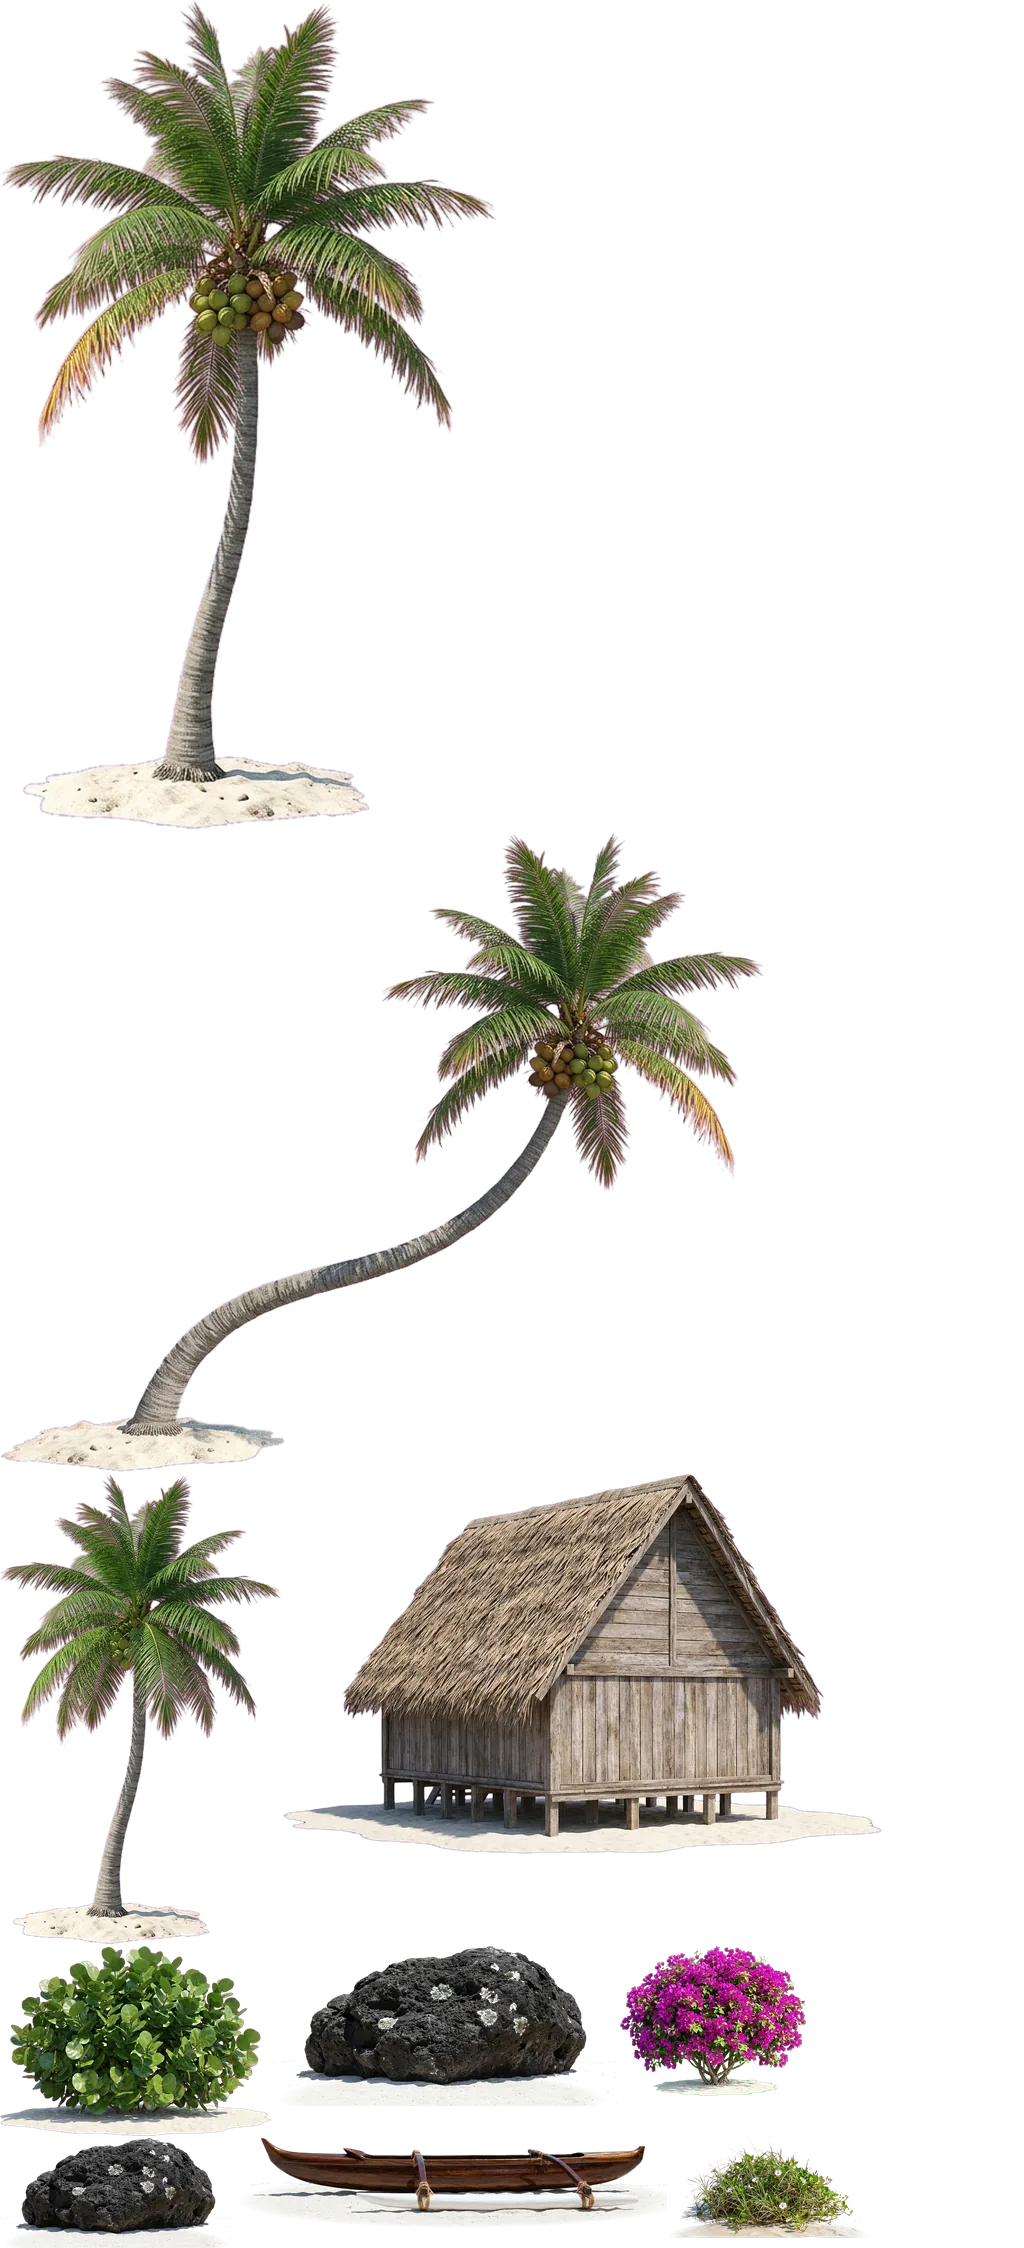
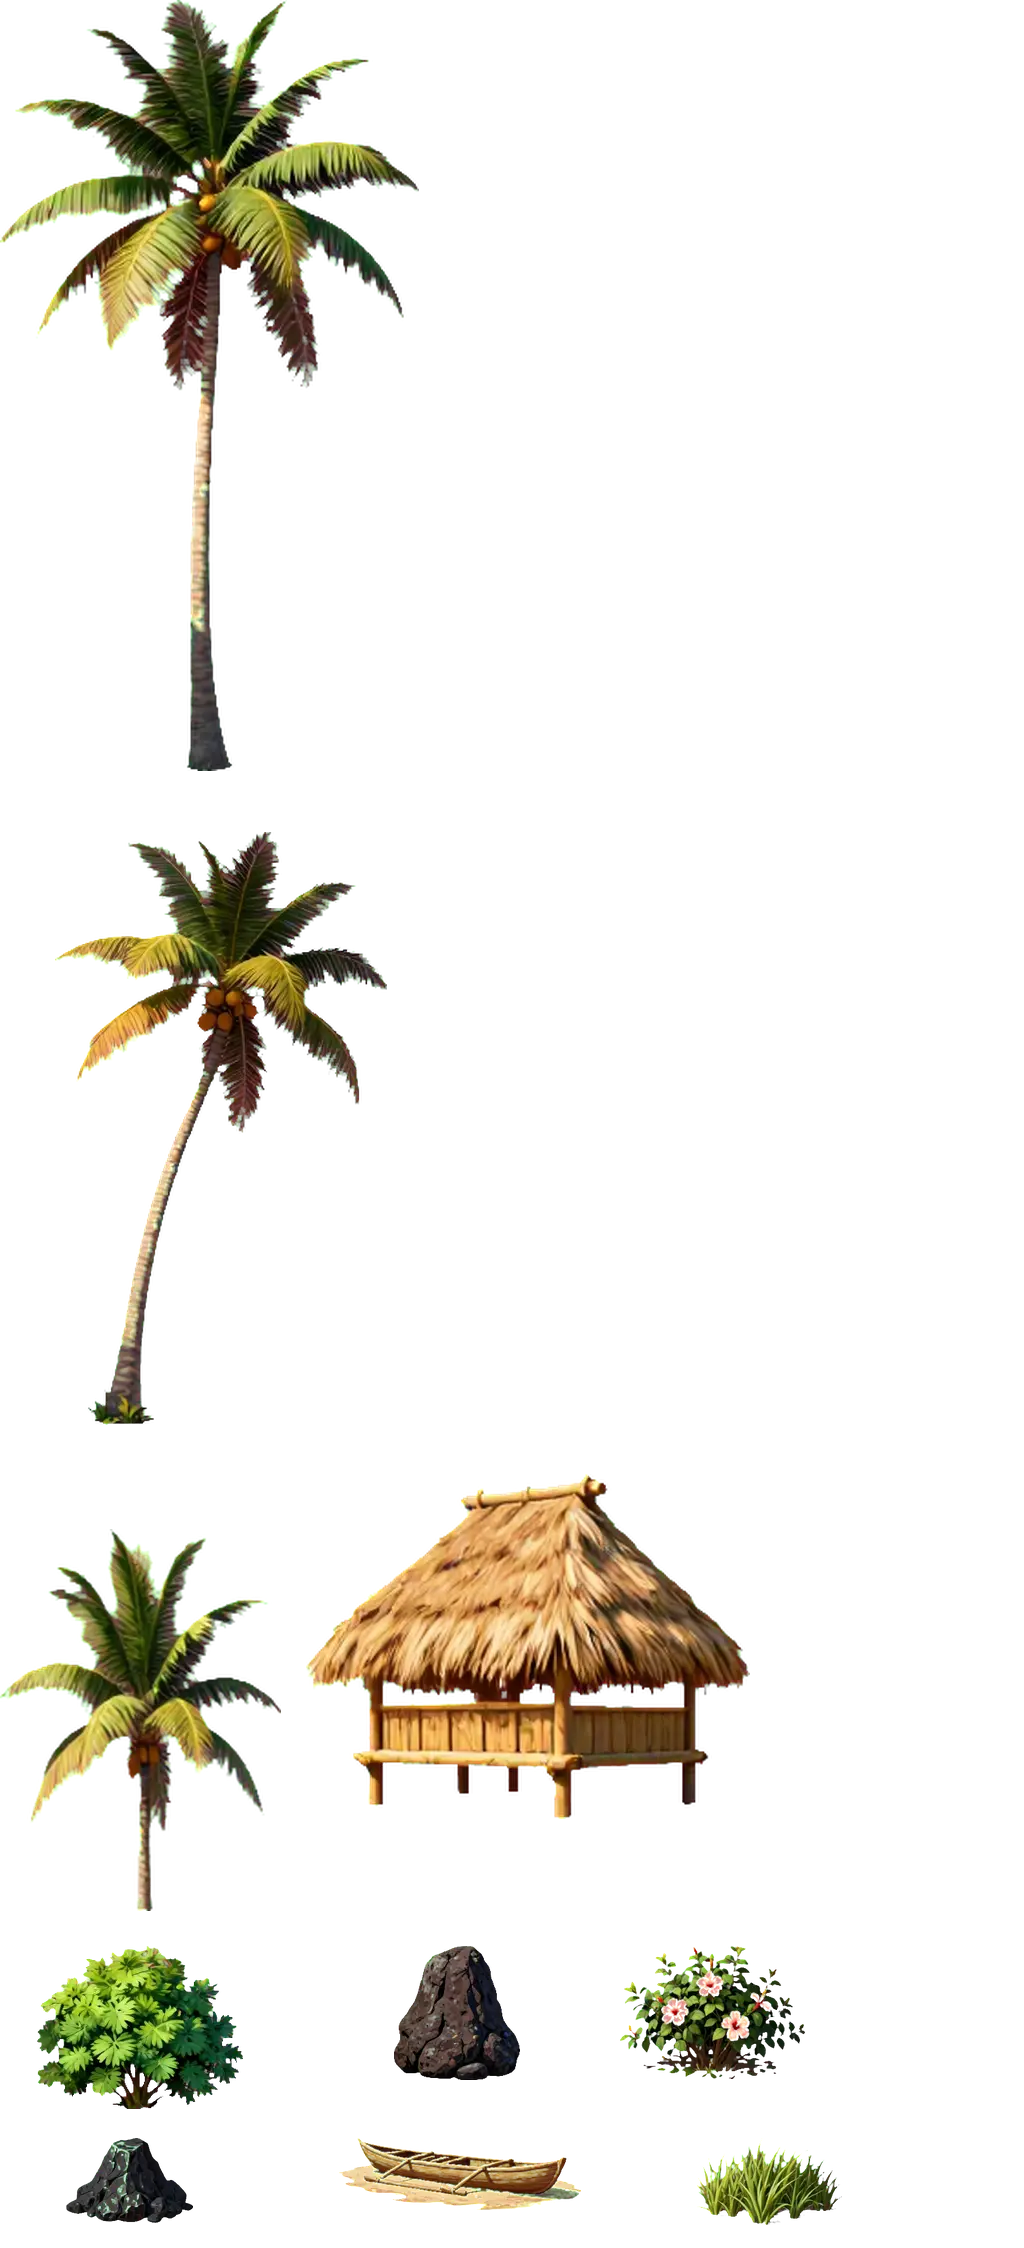
Laguna tropical pintada con el estilo de los héroes, con arena y agua pintadas en 3D (0.100.0) (#111)
* Fiordo pintado con el estilo de los héroes, con suelo y agua pintados en 3D (0.98.0)

Claude-Session: https://claude.ai/code/session_01YU6HPKNqDAini2Aa6w3kXk

* Laguna tropical pintada con el estilo de los héroes, con arena y agua pintadas en 3D (0.100.0)

Claude-Session: https://claude.ai/code/session_01YU6HPKNqDAini2Aa6w3kXk

* Prueba de temporizador frenado: esperar a que la sesión de los 20 s esté guardada

La escritura de la sesión en curso es asíncrona; con el CI cargado, la de los 20 s llegaba
después de leerla y la prueba comparaba contra la copia de los 10 s.

Claude-Session: https://claude.ai/code/session_01YU6HPKNqDAini2Aa6w3kXk

---------

Changed region(s): [[0.0, 0.3737, 0.8438, 1.0], [0.0, 0.0, 0.4688, 0.4982], [0.0625, 0.4671, 0.0938, 0.4982]]

diff --git a/src/carrera.js b/src/carrera.js
@@ -70,6 +70,8 @@ export const PAISAJES = {
     costa: 'assets/carrera/laguna_costa.webp',
     // Agua de la vista 2D: textura cenital que se repite (m = metros que cubre) y espuma junto a la orilla
     agua: { src: 'assets/carrera/laguna_agua.webp', m: 9 },
+    suelo3d: { src: 'assets/carrera/laguna_suelo.webp', m: 8 },
+    aguaTextura3d: { src: 'assets/carrera/laguna_agua3d.webp', m: 10 },
     espuma: 'assets/carrera/laguna_espuma.webp',
     orilla: {
       src: 'assets/carrera/laguna_orilla.webp',
@@ -325,10 +327,10 @@ function franjas3d(ctx, P, camZ, tex, metros, lado, ancho, alto, cx, fx) {
   const th = tex.naturalHeight || tex.height;
   ctx.fillStyle = pat;
   let z0 = camZ + 1.2;
-  // Solo hasta 140 m: más lejos la bruma lo tapa y basta el color de fondo. Franjas cada vez más largas (×1,5).
+  // Solo hasta 140 m: más lejos la bruma lo tapa y basta el color de fondo. Franjas cada vez más largas (×1,3).
   const hasta = camZ + 140;
   while (z0 < hasta) {
-    const z1 = Math.min(hasta, camZ + (z0 - camZ) * 1.5 + 0.6);
+    const z1 = Math.min(hasta, camZ + (z0 - camZ) * 1.3 + 0.4);
     const a = P(0, z0);
     const b = P(0, z1);
     if (!a || !b) break;
@@ -336,7 +338,8 @@ function franjas3d(ctx, P, camZ, tex, metros, lado, ancho, alto, cx, fx) {
     const m = P(0, zm);
     const sx = (fx / m.d) * (metros / tw);
     const sy = -((a.y - b.y) / (z1 - z0)) * (metros / th);
-    pat.setTransform(new DOMMatrix([sx, 0, 0, sy, cx, m.y - sy * ((zm / metros) * th)]));
+    // Anclada en el borde cercano: así cada franja empieza justo donde acabó la anterior y no se ven cortes.
+    pat.setTransform(new DOMMatrix([sx, 0, 0, sy, cx, a.y - sy * ((z0 / metros) * th)]));
     ctx.beginPath();
     if (lado) {
       const ia = P(lado.borde, z0);

diff --git a/src/pantallas/heroe.js b/src/pantallas/heroe.js
@@ -753,10 +753,10 @@ function pintarTienda(h, per) {
     : '<li class="vacio">Aún no tienes ventajas. Cómpralas aquí y elígelas en Entrenar antes de la carrera.</li>';
 }
 
-// Imágenes de los paisajes de pago que tienes (panorama, orilla y costa). Las variantes usan las de su paisaje base.
+// Imágenes de los paisajes de pago que tienes (panorama, orilla, costa y texturas). Las variantes usan las de su paisaje base.
 export function archivosDePaisajes(per) {
   const ids = Object.keys(PAISAJES).filter((id) => PAISAJES[id].precio > 0 && tienePaisaje(per, id));
-  return [...new Set(ids.flatMap((id) => [PAISAJES[id].panorama?.src, PAISAJES[id].costa, PAISAJES[id].orilla?.src, PAISAJES[id].agua?.src, PAISAJES[id].espuma]).filter(Boolean))];
+  return [...new Set(ids.flatMap((id) => [PAISAJES[id].panorama?.src, PAISAJES[id].costa, PAISAJES[id].orilla?.src, PAISAJES[id].agua?.src, PAISAJES[id].espuma, PAISAJES[id].suelo3d?.src, PAISAJES[id].aguaTextura3d?.src]).filter(Boolean))];
 }
 
 // Pide al service worker que guarde para usarlos sin conexión los vídeos de tu clase (la vista realista) y los

diff --git a/src/version.js b/src/version.js
@@ -1,2 +1,2 @@
 // Versión de la app: la misma que la caché del service worker (sw.js). Súbela al publicar cambios.
-export const VERSION = '0.99.1';
+export const VERSION = '0.100.0';

diff --git a/CHANGELOG.md b/CHANGELOG.md
@@ -2,6 +2,14 @@
 
 Lo que cambia en cada versión de Rower. La versión de la app vive en `src/version.js`; esta lista empieza siempre por esa versión (lo comprueba `pruebas/version.test.mjs`).
 
+## 0.100.0 · 2026-11-22
+
+La laguna tropical, repintada con el estilo de los héroes.
+
+- **Laguna pintada.** Islas volcánicas, nubes, palmeras, fare, canoa, rocas volcánicas y arbustos con hibiscos pintados con el mismo motor y la misma mano que los retratos y el fiordo.
+- **Arena y agua turquesa pintadas en la vista 3D**, en perspectiva y moviéndose con la carrera, con bruma lejana del color del pie de las islas. Las variantes (atardecer, luna llena, dorada) las tiñen igual.
+- **Sin cortes en el agua.** Las franjas de la textura ahora empiezan justo donde acaba la anterior y son más finas; también se nota en el fiordo.
+- Al comprar un paisaje se descargan también sus texturas de suelo y agua para verlo sin conexión.
 ## 0.99.1 · 2026-11-22
 
 El pirata sigue la historia de Barbanegra.
